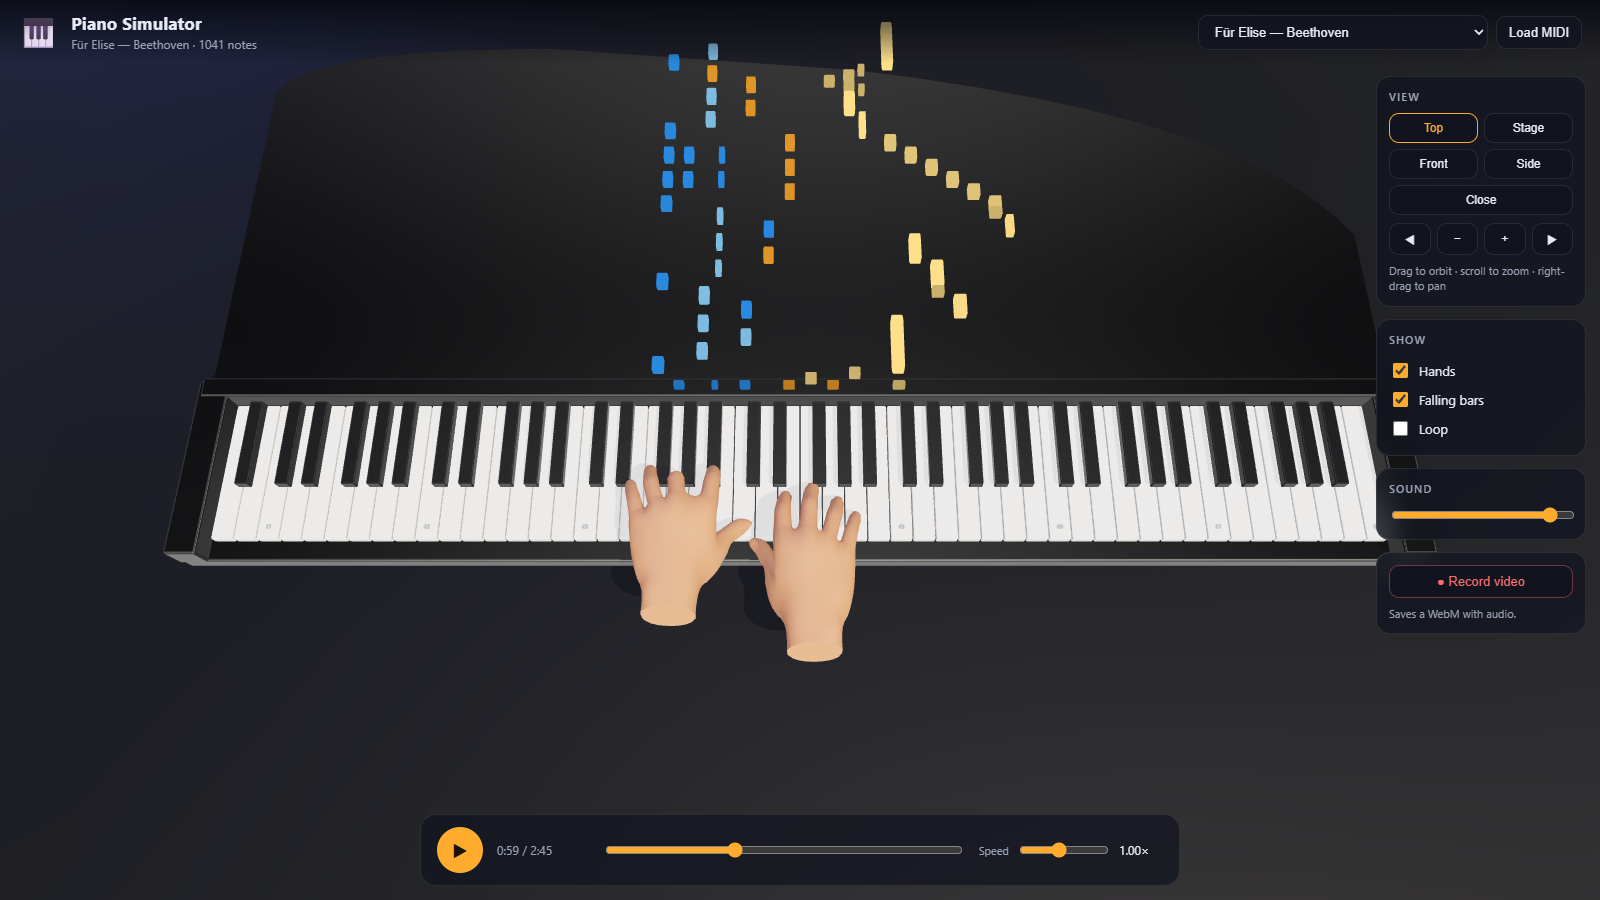
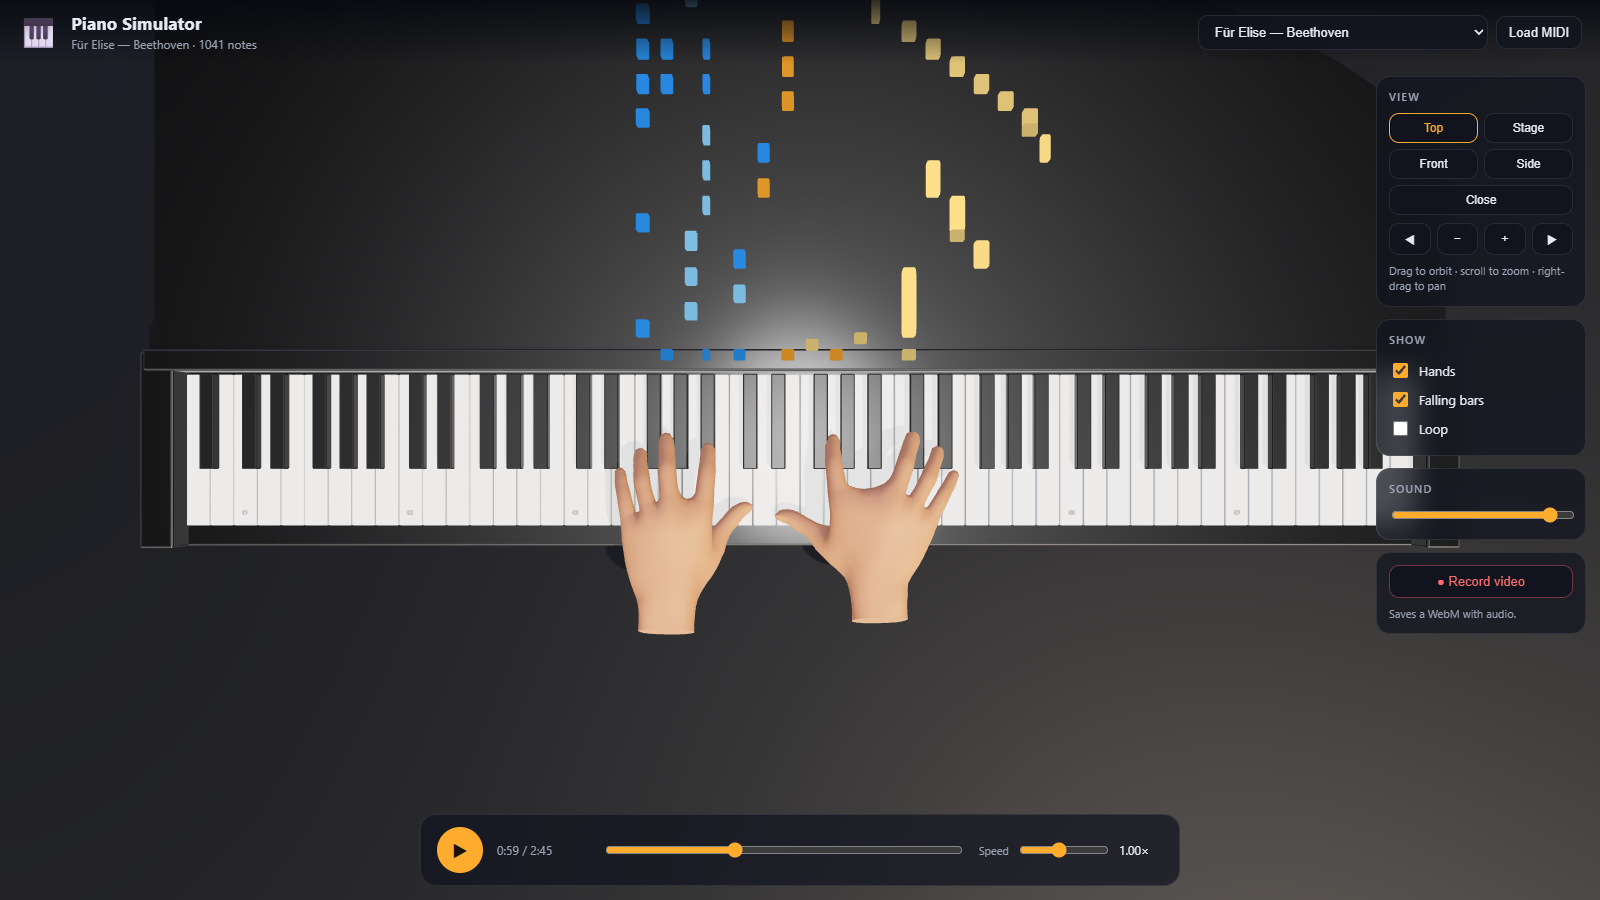
Make the top view a true 90° overhead camera

diff --git a/src/scene.js b/src/scene.js
@@ -3,11 +3,14 @@ import { OrbitControls } from 'three/addons/controls/OrbitControls.js';
 import { RoomEnvironment } from 'three/addons/environments/RoomEnvironment.js';
 import { BOARD_W } from './layout.js';
 
-// Camera presets. "top" is the default: a steep overhead view of the keyboard.
-// Presets marked `follow` shift along the keys with the hands, so the player
-// stays in frame at either end of the keyboard.
+// Camera presets. "top" is the default: a true 90° overhead view, with the
+// camera directly above its target, so the keys read at their real width and
+// a hand span can be judged by eye. Presets marked `follow` shift along the
+// keys with the hands, so the player stays in frame at either end of the
+// keyboard.
 export const PRESETS = {
-  top: { pos: [0, 46, 17], target: [0, 0, -1] },
+  // pos.x/z equal target.x/z: the view direction is exactly (0, -1, 0).
+  top: { pos: [0, 46, 0], target: [0, 0, 0] },
   perform: { pos: [0, 34, 30], target: [0, 1, -1] },
   front: { pos: [0, 7, 33], target: [0, 1.5, 0], follow: true },
   side: { pos: [36, 15, 20], target: [0, 1, 0], follow: true },

diff --git a/README.md b/README.md
@@ -36,7 +36,7 @@ The menu lists 15 famous pieces. You can also load any standard MIDI file from y
 A Tone.js sampler plays the Salamander grand piano set. The set holds 30 samples across the range. A freeverb adds room tone. The browser needs one click before it can start audio.
 
 ### Camera and tempo
-The default view looks straight down at the keyboard. Five presets are available: top, perform, front, side, and close. The front, side, and close views slide along the keys with the player, so the hands stay in frame. A manual drag or pan releases the follow until you pick a preset again. OrbitControls lets you rotate, zoom, and pan left and right along the keys. The speed slider sets the tempo from 0.25x to 2x. A seek slider moves to any point. A loop toggle repeats the piece.
+The default view looks straight down at the keyboard at 90°, so key widths and hand spans read at their true size. Five presets are available: top, perform, front, side, and close. The front, side, and close views slide along the keys with the player, so the hands stay in frame. A manual drag or pan releases the follow until you pick a preset again. OrbitControls lets you rotate, zoom, and pan left and right along the keys. The speed slider sets the tempo from 0.25x to 2x. A seek slider moves to any point. A loop toggle repeats the piece.
 
 ### Video recording
 The recorder captures the canvas and the audio to a WebM file. It uses the browser MediaRecorder API at 60 frames per second. Use it to save a performance for review or sharing.
